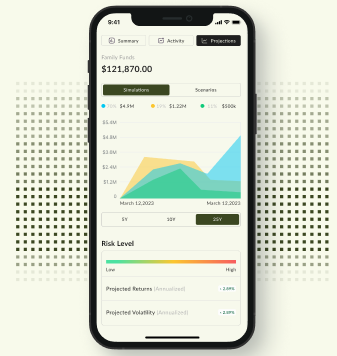
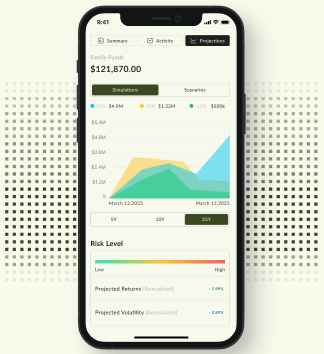
feat: add mobile responsiveness

diff --git a/css/style.css b/css/style.css
@@ -22,11 +22,6 @@ a {
 	color: inherit;
 }
 
-ul,
-ol {
-	list-style: none;
-}
-
 h1,
 h2,
 h3,
@@ -46,7 +41,7 @@ img {
 .container {
 	width: 100%;
 	margin: 0 auto;
-	padding: 0 20px;
+	padding: 0 24px;
 }
 
 .flex {
@@ -73,44 +68,48 @@ img {
 .hero {
 	background-color: var(--secondary-color);
 	width: 100%;
-	height: 100vh;
+	min-height: 100vh;
 	display: flex;
 	justify-content: center;
 	align-items: center;
-	padding-top: 4rem;
+	padding-top: 8rem;
+	overflow: hidden;
 }
 
 .hero__content {
 	display: flex;
 	align-items: center;
 	justify-content: space-between;
+	flex-direction: column;
 }
 
-.hero__text {
-	width: 50%;
-}
+/* .hero__text {} */
+
 .hero__image {
-	width: 45%;
+	margin-top: 1.2rem;
+	padding-block: 12px;
 	max-width: 500px;
 }
-.hero__img {
+.hero__image-img {
 	width: 100%;
 	margin-left: auto;
 }
 
 .hero__title {
-	font-size: 60px;
+	font-size: 37px;
 	font-weight: 500;
-	line-height: 72px;
+	line-height: 48px;
 }
 .hero__subtitle {
+	color: rgba(79, 79, 79, 1);
 	margin-top: 12px;
-	font-size: 20px;
+	font-size: 18px;
 	font-weight: 400;
-	line-height: 30px;
+	line-height: 28px;
 }
+
 .hero__form {
-	margin-top: 32px;
+	margin-top: 30px;
 }
 .hero__form-group {
 	position: relative;
@@ -147,13 +146,25 @@ img {
 }
 
 /* Responsive */
-@media (max-width: 768px) {
-}
-
-/* Container Responsive */
 @media (min-width: 768px) {
 	.container {
 		max-width: 720px;
+	}
+
+	.hero {
+		padding-top: 3rem;
+	}
+	.hero__content {
+		justify-content: space-between;
+		flex-direction: row;
+	}
+	.hero__text {
+		width: 48%;
+	}
+	.hero__image {
+		margin-top: 0;
+		width: 45%;
+		max-width: 500px;
 	}
 }
 
@@ -161,16 +172,29 @@ img {
 	.container {
 		max-width: 960px;
 	}
+
+	.hero__title {
+		font-size: 54px;
+		line-height: 64px;
+	}
+	.hero__subtitle {
+		font-size: 20px;
+		line-height: 30px;
+	}
 }
 
 @media (min-width: 1280px) {
 	.container {
 		max-width: 1280px;
-		padding: 0 40px;
+		padding: 0 48px;
+	}
+
+	.logo__img {
+		height: 2.4rem;
 	}
 	.hero__image {
 		width: 45%;
-		max-width: 440px;
+		max-width: 420px;
 	}
 }
 
@@ -179,21 +203,15 @@ img {
 		padding: 0 24px;
 	}
 
-	.logo__img {
-		height: 2.4rem;
-	}
-
 	.hero {
 		padding-top: 4rem;
 	}
-
 	.hero__title {
 		font-size: 60px;
-		font-weight: 500;
 		line-height: 72px;
 	}
 	.hero__image {
 		width: 50%;
-		max-width: 580px;
+		max-width: 570px;
 	}
 }

diff --git a/index.html b/index.html
@@ -37,10 +37,13 @@
 					</div>
 
 					<div class="hero__image">
-						<img class="hero__img" src="images/hero-image.png" alt="Hero Image" />
+						<img class="hero__image-img" src="images/hero-image.png" alt="Hero Image" />
 					</div>
 				</div>
 			</div>
 		</section>
+
+		<!-- Main -->
+		<main></main>
 	</body>
 </html>
